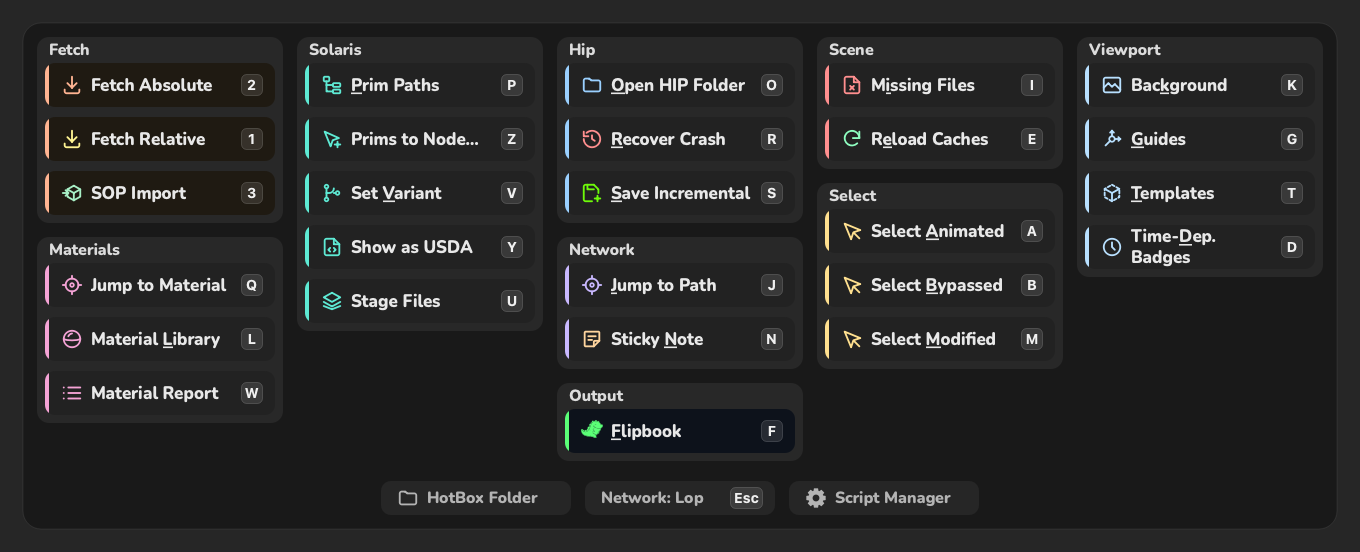
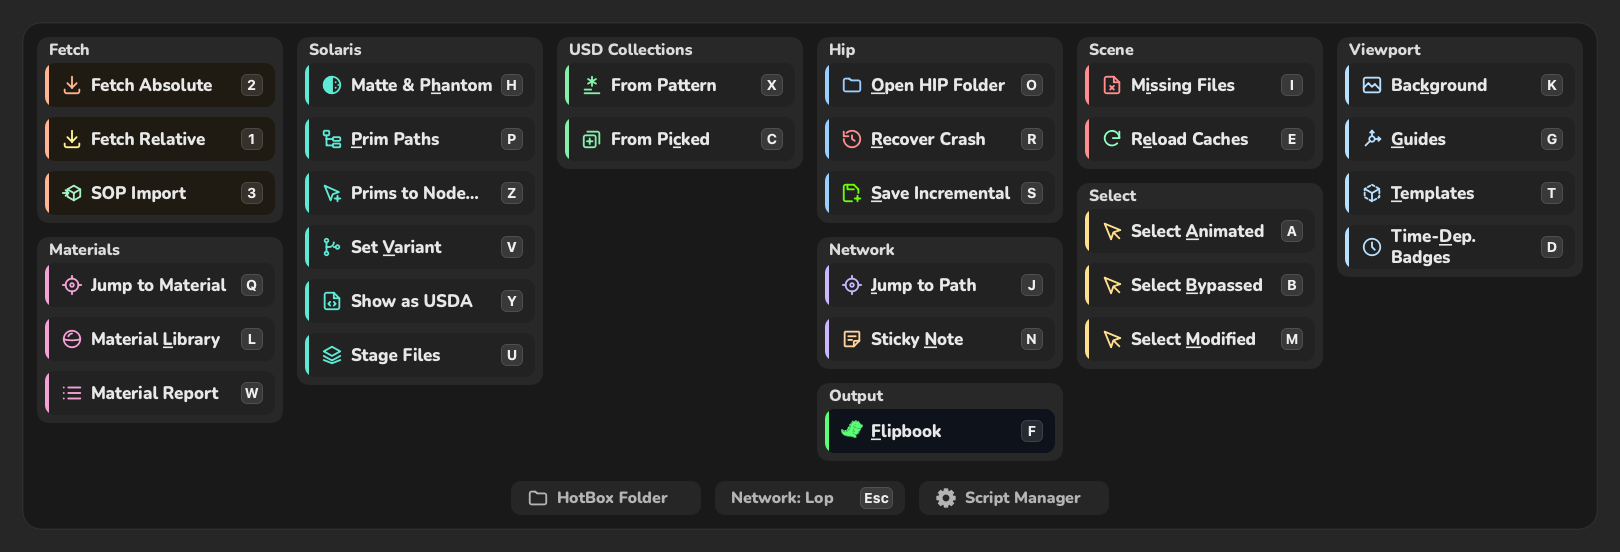
USD Collections (Lop): From Picked (viewer prims -> Collection LOP, %name), From Pattern (counts and lists what the pattern picks before creating)

diff --git a/common/usd.py b/common/usd.py
@@ -252,3 +252,42 @@ def openFile(path: Path) -> None:
         subprocess.Popen(["open", str(path)])
     else:
         subprocess.Popen(["xdg-open", str(path)])
+
+
+# --- collections ---------------------------------------------------------------------------------------------------
+
+def collectionName(text: str) -> str:
+    """A valid USD name: 'hero props!' -> 'hero_props'; a leading digit gets '_'"""
+    name = re.sub(r"\W+", "_", text.strip()).strip("_") or "collection"
+    return f"_{name}" if name[0].isdigit() else name
+
+
+def _parmLike(node, labels, name_parts):
+    """A parm by one of the labels (case-insensitive), else by a part of its name"""
+    wanted = {label.casefold() for label in labels}
+    parms = node.parms()
+    found = next((p for p in parms if p.parmTemplate().label().casefold() in wanted), None)
+    return found or next((p for p in parms if any(part in p.name() for part in name_parts)), None)
+
+
+def addCollection(node, name: str, pattern: str):
+    """A Collection LOP under node: the collection name and its include pattern. (the node, parms not found)"""
+    new = appendNode(node, "collection", f"COLLECTION_{name}")
+    missing = []
+    for value, labels, parts in ((name, ("Collection Name", "Name"), ("collectionname",)),
+                                 (pattern, ("Includes", "Include Pattern", "Include", PRIMS_PARM),
+                                  ("includepattern", "primpattern"))):
+        parm = _parmLike(new, labels, parts)
+        if parm is None:
+            missing.append(labels[0])
+        else:
+            parm.set(value)
+    return new, missing
+
+
+def expandPattern(node, pattern: str) -> list[str]:
+    """Prim paths a pattern picks on the node's stage (the same rule the LOP fields use)"""
+    try:
+        return [str(p) for p in hou.LopSelectionRule(pattern).expandedPaths(lopnode=node)]
+    except hou.OperationFailed:
+        return []

diff --git a/lib/all/Lop/collection_from_pattern.py b/lib/all/Lop/collection_from_pattern.py
@@ -1,0 +1,37 @@
+#label:From Pattern
+#group:USD Collections
+#textcolor:#86efac
+#hotkey:x
+#icon:pattern.svg
+
+# A collection from a prim pattern (/geo/*/RENDER_*, %type:Mesh, ...): shows how many prims it picks on the
+# displayed stage before the Collection LOP is made. Picked prims fill the pattern in to start from
+import hou
+from hotbox.common import panes, usd
+
+PREVIEW_LINES = 15
+
+node = usd.displayNode()
+if node is None:
+    panes.warn("No LOP network under the cursor")
+else:
+    pattern, name = " ".join(usd.pickedPaths()) or "/", "collection"
+    while True:
+        button, (name, pattern) = hou.ui.readMultiInput(
+            "Collection from a prim pattern", ("Name", "Pattern"), buttons=("Check", "Cancel"), default_choice=0,
+            close_choice=1, initial_contents=(name, pattern), title="Collection from Pattern")
+        if button != 0 or not pattern.strip():
+            break
+        paths = usd.expandPattern(node, pattern)
+        shown = "\n".join(paths[:PREVIEW_LINES]) + (f"\n… and {len(paths) - PREVIEW_LINES} more"
+                                                    if len(paths) > PREVIEW_LINES else "")
+        choice = hou.ui.displayMessage(f"{pattern}\npicks {len(paths)} prims", buttons=("Create", "Edit", "Cancel"),
+                                       default_choice=0 if paths else 1, close_choice=2, details=shown or None,
+                                       details_expanded=bool(paths), title="Collection from Pattern")
+        if choice == 0:
+            new, missing = usd.addCollection(node, usd.collectionName(name), pattern)
+            if missing:
+                panes.warn(f"{new.name()}: set {', '.join(missing)} by hand")
+            break
+        if choice == 2:
+            break

diff --git a/tests/test_usd.py b/tests/test_usd.py
@@ -76,3 +76,34 @@ def test_variant_choices_current_first_with_parents(hou):
     leaf = prim("/tree/leaf", {}, parent=asset)
 
     assert usd.variantChoices(leaf) == [("/tree", "lod", "high"), ("/tree", "lod", "low")]
+
+
+def test_collection_names_are_usd_names(hou):
+    from hotbox.common import usd
+
+    assert usd.collectionName(" hero props! ") == "hero_props"
+    assert usd.collectionName("3d") == "_3d"
+    assert usd.collectionName("***") == "collection"
+
+
+def test_add_collection_sets_name_and_includes_by_label(hou):
+    from hotbox.common import usd
+
+    def parm(name, label):
+        p = MagicMock()
+        p.name.return_value = name
+        p.parmTemplate().label.return_value = label
+        return p
+
+    name_parm, include_parm = parm("collectionname1", "Collection Name"), parm("includepattern1", "Includes")
+    new = MagicMock()
+    new.parms.return_value = [parm("primpath", "Primitive Path"), name_parm, include_parm]
+    node = MagicMock()
+    node.createOutputNode.return_value = new
+
+    created, missing = usd.addCollection(node, "props", "/geo/a /geo/b")
+
+    assert created is new and missing == []
+    node.createOutputNode.assert_called_with("collection", "COLLECTION_props")
+    name_parm.set.assert_called_with("props")
+    include_parm.set.assert_called_with("/geo/a /geo/b")

diff --git a/lib/all/Lop/picked_to_collection.py b/lib/all/Lop/picked_to_collection.py
@@ -1,0 +1,28 @@
+#label:From Picked
+#group:USD Collections
+#textcolor:#86efac
+#hotkey:c
+#icon:collection.svg
+
+# The prims picked in the viewer become a collection (a Collection LOP under the displayed one):
+# then %name picks them in any prim field
+import hou
+from hotbox.common import panes, usd
+
+node = usd.displayNode()
+picked = usd.pickedPaths()
+if node is None or not picked:
+    panes.warn("Pick prims in the Scene Viewer (LOPs) first")
+else:
+    default = picked[0].rstrip("/").rsplit("/", 1)[-1] if len(picked) == 1 else "picked"
+    button, text = hou.ui.readInput(f"Collection of {len(picked)} prims", buttons=("OK", "Cancel"),
+                                    default_choice=0, close_choice=1, initial_contents=default,
+                                    title="Picked to Collection")
+    if button == 0:
+        name = usd.collectionName(text)
+        new, missing = usd.addCollection(node, name, " ".join(picked))
+        if missing:
+            hou.ui.copyTextToClipboard(" ".join(picked))
+            panes.warn(f"{new.name()}: set {', '.join(missing)} by hand (the prims are in the clipboard)")
+        else:
+            hou.ui.setStatusMessage(f"%{name}: {len(picked)} prims")

diff --git a/README.md b/README.md
@@ -78,7 +78,7 @@ everyone with `HOTBOX_PACKAGES = "studio-name"`.
 
 | Where | Buttons |
 |---|---|
-| **Solaris**, nothing selected | Fetch · SOP Import with Karma velocity blur · Material Library · Jump to Material · Material Report · Set Variant · Prims to Node… · Stage Files (every layer, reference and texture; missing ones first) · Show as USDA · Matte & Phantom (Assign Material → Prune → Karma matte → Karma phantom) · Prim Paths ([DionysUSD](https://github.com/matzubr/DionysUSD)) |
+| **Solaris**, nothing selected | Fetch · SOP Import with Karma velocity blur · Material Library · Jump to Material · **USD Collections**: From Picked, From Pattern (with a count of what it picks) · Material Report · Set Variant · Prims to Node… · Stage Files (every layer, reference and texture; missing ones first) · Show as USDA · Matte & Phantom (Assign Material → Prune → Karma matte → Karma phantom) · Prim Paths ([DionysUSD](https://github.com/matzubr/DionysUSD)) |
 | SOPs, nulls, caches | To Solaris · Volume to Solaris · Cache Network · Frame Range · Version Up · Open Folder · Object Merge |
 | any node | Create Null / Wrangle / Vop · Network Box · Sticky Note · Snap to Grid · Color by Type · Copy Path · Convert to `$JOB` / `$FILM` · Select Same / Modified |
 | wrangles, OpenCL, Python | Snippets ([mnemo](https://github.com/matzubr/mnemo)) |
